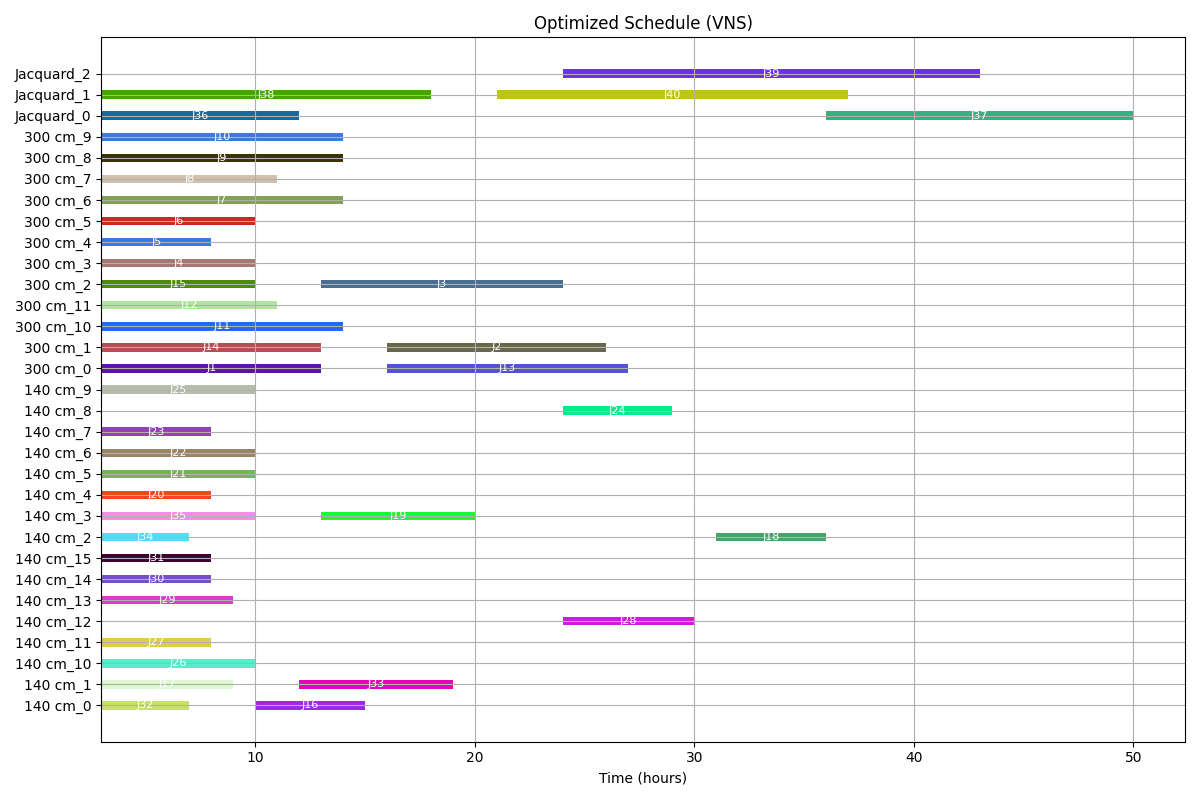
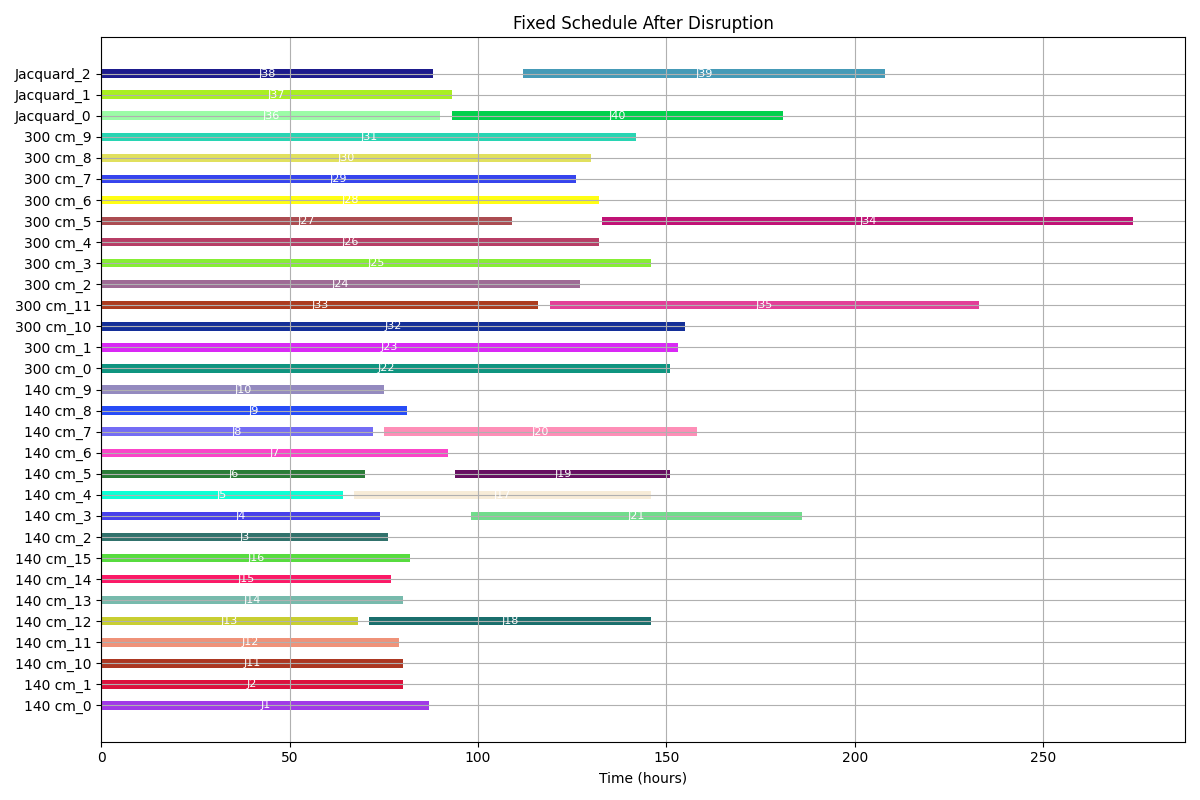
Big big big chunky update

diff --git a/mainv2.py b/mainv2.py
@@ -22,21 +22,30 @@ MACHINE_GROUPS = {
 
 # Generate jobs based on machine capacity distribution
 def generate_jobs():
-    probs = [0.36, 0.564, 0.075]
-    machine_types = ['300 cm', '140 cm', 'Jacquard']
     total_jobs = 40
+    mean_order_size = 400
+    std_order_size = 40   #Can be adjusted accordingly by Kvadrat
+    min_order_size = 200
+
+    machine_types = ['140 cm', '300 cm', 'Jacquard']
+    probs = [0.564, 0.360, 0.075]
+
+    # Multinomial distribution for job counts per machine type
     job_counts = np.random.multinomial(total_jobs, probs)
     job_distribution = dict(zip(machine_types, job_counts))
 
-    base_times = {'300 cm': 10, '140 cm': 6, 'Jacquard': 18}
     jobs = []
     job_count = 1
+
     for machine_type, num_jobs in job_distribution.items():
+        prod_speed = MACHINE_GROUPS[machine_type]['production_speed']
         for _ in range(num_jobs):
-            base_time = base_times[machine_type]
-            proc_time = int(random.triangular(4, base_time, base_time + 5))
+            # Generate order size (meters), min 200
+            order_size = max(int(np.random.normal(mean_order_size, std_order_size)), min_order_size)
+            # Processing time in hours
+            proc_time = int(order_size / prod_speed)
             changeover_time = 3 if random.random() < 0.8 else 24
-            due_date = max(int(proc_time + random.gauss(6, 2)), proc_time + 1)
+            due_date = 168  
             jobs.append(Job(f"J{job_count}", machine_type, proc_time, changeover_time, due_date))
             job_count += 1
 
@@ -46,14 +55,31 @@ def generate_jobs():
 # Assign jobs to individual machines in each group
 def assign_jobs_to_individual_machines(jobs):
     machine_assignments = defaultdict(list)
-    machine_counters = defaultdict(int)
+    machine_types = set(job.machine_type for job in jobs)
+    machine_indices = {mt: [f"{mt}_{i}" for i in range(MACHINE_GROUPS[mt]['num_machines'])] for mt in machine_types}
+
+    # Sort jobs by due date (EDD)
+    jobs = sorted(jobs, key=lambda job: job.due_date)
 
     for job in jobs:
         group = job.machine_type
-        machine_index = machine_counters[group] % MACHINE_GROUPS[group]['num_machines']
-        machine_name = f"{group}_{machine_index}"
-        machine_assignments[machine_name].append(job)
-        machine_counters[group] += 1
+        best_machine = None
+        earliest_start = float('inf')
+        for machine in machine_indices[group]:
+            # Simulate adding job to this machine and get its start time
+            temp_jobs = machine_assignments[machine] + [job]
+            schedule = schedule_machine(temp_jobs)
+            for job_id, start, end in schedule:
+                if job_id == job.id and start < earliest_start:
+                    # Check capacity constraint
+                    total_proc = sum(j.processing_time for j in machine_assignments[machine]) + job.processing_time
+                    if total_proc <= MACHINE_GROUPS[group]['weekly_capacity']:
+                        earliest_start = start
+                        best_machine = machine
+        if best_machine:
+            machine_assignments[best_machine].append(job)
+        else:
+            print(f"⚠ Warning: Could not assign job {job.id} to any {group} machine without exceeding weekly capacity.")
 
     return machine_assignments
 
@@ -62,8 +88,11 @@ def schedule_machine(machine_jobs):
     machine_jobs.sort(key=lambda job: job.due_date)
     schedule = []
     current_time = 0
-    for job in machine_jobs:
-        start = current_time + job.changeover_time
+    for idx, job in enumerate(machine_jobs):
+        if idx == 0:
+            start = 0
+        else:
+            start = current_time + job.changeover_time
         end = start + job.processing_time
         schedule.append((job.id, start, end))
         current_time = end
@@ -72,66 +101,104 @@ def schedule_machine(machine_jobs):
 # Shifting Bottleneck Heuristic with parallel machines
 def shifting_bottleneck_parallel(jobs):
     machine_assignments = assign_jobs_to_individual_machines(jobs)
+    all_machines = list(machine_assignments.keys())
+    improved = True
+
+    while improved:
+        improved = False
+        lateness_dict = {}
+        temp_schedules = {}
+
+        # Schedule each machine and calculate its max lateness
+        for machine in all_machines:
+            schedule = schedule_machine(machine_assignments[machine])
+            temp_schedules[machine] = schedule
+            max_lateness = 0
+            for job_id, start, end in schedule:
+                job = next(j for j in machine_assignments[machine] if j.id == job_id)
+                lateness = max(0, end - job.due_date)
+                if lateness > max_lateness:
+                    max_lateness = lateness
+            lateness_dict[machine] = max_lateness
+
+        # Find the bottleneck machine (with highest max lateness)
+        bottleneck_machine = max(lateness_dict, key=lateness_dict.get)
+        bottleneck_jobs = machine_assignments[bottleneck_machine][:]
+        group = bottleneck_machine.split('_')[0]
+        group_machines = [m for m in all_machines if m.startswith(group)]
+
+        # Try to move each job to any earlier slot on any machine of the same type
+        for job in bottleneck_jobs:
+            current_schedule = schedule_machine(machine_assignments[bottleneck_machine])
+            current_start = None
+            for job_id, start, end in current_schedule:
+                if job_id == job.id:
+                    current_start = start
+                    break
+
+            for other_machine in group_machines:
+                if other_machine == bottleneck_machine:
+                    continue
+                # Try inserting job at every possible position
+                for insert_pos in range(len(machine_assignments[other_machine]) + 1):
+                    # Remove from current machine
+                    machine_assignments[bottleneck_machine].remove(job)
+                    # Insert into new machine at position insert_pos
+                    machine_assignments[other_machine].insert(insert_pos, job)
+
+                    # Recalculate schedule for other_machine
+                    new_schedule = schedule_machine(machine_assignments[other_machine])
+                    new_start = None
+                    for job_id, start, end in new_schedule:
+                        if job_id == job.id:
+                            new_start = start
+                            break
+
+                    # Check capacity constraint
+                    total_proc = sum(j.processing_time for j in machine_assignments[other_machine])
+                    if (new_start is not None and current_start is not None and
+                        new_start < current_start and
+                        total_proc <= MACHINE_GROUPS[group]['weekly_capacity']):
+                        improved = True
+                        break
+                    else:
+                        # Undo the move
+                        machine_assignments[other_machine].pop(insert_pos)
+                        machine_assignments[bottleneck_machine].append(job)
+                if improved:
+                    break
+            if improved:
+                break  # Only one move per iteration
+
+    # Final scheduling after all improvements
     final_schedule = {}
-    for machine, job_list in machine_assignments.items():
-        final_schedule[machine] = schedule_machine(job_list)
+    for machine in all_machines:
+        final_schedule[machine] = schedule_machine(machine_assignments[machine])
     return final_schedule
 
-# Apply disruptions to the schedule
-def apply_disruptions(schedule, disruption_rate=0.1):
-    disrupted_schedule = {}
-    for machine, jobs in schedule.items():
-        new_jobs = []
-        for job_id, start, end in jobs:
-            if random.random() < disruption_rate:
-                delay = random.randint(1, 3)
-                print(f"⚠ Disruption: Delaying {job_id} on {machine} by {delay}h")
-                start += delay
-                end += delay
-            new_jobs.append((job_id, start, end))
-        disrupted_schedule[machine] = new_jobs
-    return disrupted_schedule
-
 # Apply additional disruptions
-def apply_additional_disruptions(schedule, jobs, breakdown_rate=0.1, demand_rate=0.05, failure_rate=0.05, cancel_rate=0.05):
-    disrupted_schedule = copy.deepcopy(schedule)
-    job_ids = [job.id for job in jobs]
+def apply_additional_disruptions(jobs,  demand_rate=0.05):
 
-    for machine in disrupted_schedule:
-        if random.random() < breakdown_rate:
-            delay = random.randint(4, 12)
-            print(f"⚠ Machine breakdown on {machine}: All jobs delayed by {delay}h")
-            disrupted_schedule[machine] = [(job_id, start + delay, end + delay) for job_id, start, end in disrupted_schedule[machine]]
 
     if random.random() < demand_rate:
-        machine = random.choice(list(disrupted_schedule.keys()))
+        machine_types = ['140 cm', '300 cm', 'Jacquard']
+        probs = [0.564, 0.360, 0.075]
+        # Randomly select machine type for the new job based on probabilities
+        machine_type = np.random.choice(machine_types, p=probs)
+        prod_speed = MACHINE_GROUPS[machine_type]['production_speed']
+        mean_order_size = 400
+        std_order_size = 40   # Can be adjusted accordingly by Kvadrat
+        min_order_size = 200
+        order_size = max(int(np.random.normal(mean_order_size, std_order_size)), min_order_size)
+        proc_time = int(order_size / prod_speed)
+        changeover_time = 3 if random.random() < 0.8 else 24
+        due_date = int(proc_time + random.gauss(6, 2)) # Can be adjusted accordingly by Kvadrat
         new_job_id = f"NEW{random.randint(100,999)}"
-        last_end = max([end for _, _, end in disrupted_schedule[machine]], default=0)
-        proc_time = random.randint(5, 15)
-        changeover = random.choice([3, 24])
-        start = last_end + changeover
-        end = start + proc_time
-        disrupted_schedule[machine].append((new_job_id, start, end))
-        print(f"⚠ Unexpected demand: Added job {new_job_id} to {machine}")
+        # Add the new job to the jobs list
+        jobs.append(Job(new_job_id, machine_type, proc_time, changeover_time, due_date))
+        print(f"⚠ Unexpected demand: Added job {new_job_id} ({machine_type}, {order_size}m, {proc_time}h) to jobs list")
 
-    if random.random() < failure_rate:
-        machine = random.choice(list(disrupted_schedule.keys()))
-        if disrupted_schedule[machine]:
-            failed_job = random.choice(disrupted_schedule[machine])
-            rework_time = random.randint(3, 8)
-            new_start = failed_job[2]
-            new_end = new_start + rework_time
-            disrupted_schedule[machine].append((failed_job[0] + "_REWORK", new_start, new_end))
-            print(f"⚠ Product failure: Rework for {failed_job[0]} on {machine}")
-
-    if random.random() < cancel_rate:
-        machine = random.choice(list(disrupted_schedule.keys()))
-        if disrupted_schedule[machine]:
-            idx = random.randrange(len(disrupted_schedule[machine]))
-            cancelled_job = disrupted_schedule[machine].pop(idx)
-            print(f"⚠ Order cancellation: Removed {cancelled_job[0]} from {machine}")
-
-    return disrupted_schedule
+    return jobs
 
 # VNS Optimization
 def vns_optimization(jobs, iterations=100):
@@ -214,6 +281,23 @@ def plot_gantt_chart(schedule, title="Final Job Shop Schedule", save_path="final
     plt.savefig(save_path)
     plt.show()
 
+def run_full_scheduling_pipeline(jobs, vns_iterations=50):
+    # 1. Assign jobs to machines and schedule using EDD
+    machine_assignments = assign_jobs_to_individual_machines(jobs)
+    initial_schedule = {}
+    for machine, job_list in machine_assignments.items():
+        initial_schedule[machine] = schedule_machine(job_list)
+    print_schedule(initial_schedule, "Initial EDD Schedule (per machine)")
+
+    # 2. Shifting Bottleneck Heuristic (SBH)
+    sbh_schedule = shifting_bottleneck_parallel(jobs)
+    print_schedule(sbh_schedule, "Shifting Bottleneck Heuristic Schedule")
+
+    # 3. VNS Optimization
+    optimized_schedule = vns_optimization(jobs, iterations=vns_iterations)
+    print_schedule(optimized_schedule, "Optimized Schedule (VNS)")
+
+    return initial_schedule, sbh_schedule, optimized_schedule
 
 # Run all
 if __name__ == "__main__":
@@ -221,17 +305,21 @@ if __name__ == "__main__":
     random.seed(42)
     jobs = generate_jobs()
 
-    initial_schedule = shifting_bottleneck_parallel(jobs)
-    print_schedule(initial_schedule, "Initial Schedule with Parallel Machines")
+    # 1. Print initial schedule
+    print("\n--- Initial Schedule ---")
+    initial_schedule, _, _ = run_full_scheduling_pipeline(jobs, vns_iterations=0)
 
-    disrupted = apply_disruptions(initial_schedule, disruption_rate=0.15)
-    print_schedule(disrupted, "Disrupted Schedule")
+    # 2. Apply disruptions (adds new job to jobs list)
+    print("\n--- Applying Disruption (Unexpected Demand) ---")
+    apply_additional_disruptions(jobs, demand_rate=0.05)  # Set demand_rate=1.0 to guarantee a new job is added
 
-    further_disrupted = apply_additional_disruptions(disrupted, jobs)
-    print_schedule(further_disrupted, "Further Disrupted Schedule")
+    # 3. Print new schedule with the disruption
+    print("\n--- Fixed Schedule After Disruption ---")
+    fixed_schedule, _, _ = run_full_scheduling_pipeline(jobs, vns_iterations=0)
 
-    optimized_schedule = vns_optimization(jobs, iterations=50)
-    print_schedule(optimized_schedule, "Optimized Schedule (VNS)")
+    # 4. Gantt chart for the optimized schedule
+    plot_gantt_chart(fixed_schedule, title="Fixed Schedule After Disruption")
 
-    plot_gantt_chart(optimized_schedule, title="Optimized Schedule (VNS)")
+    # 4. Gantt chart for the optimized schedule
+    plot_gantt_chart(fixed_schedule, title="Fixed Schedule After Disruption")
 
